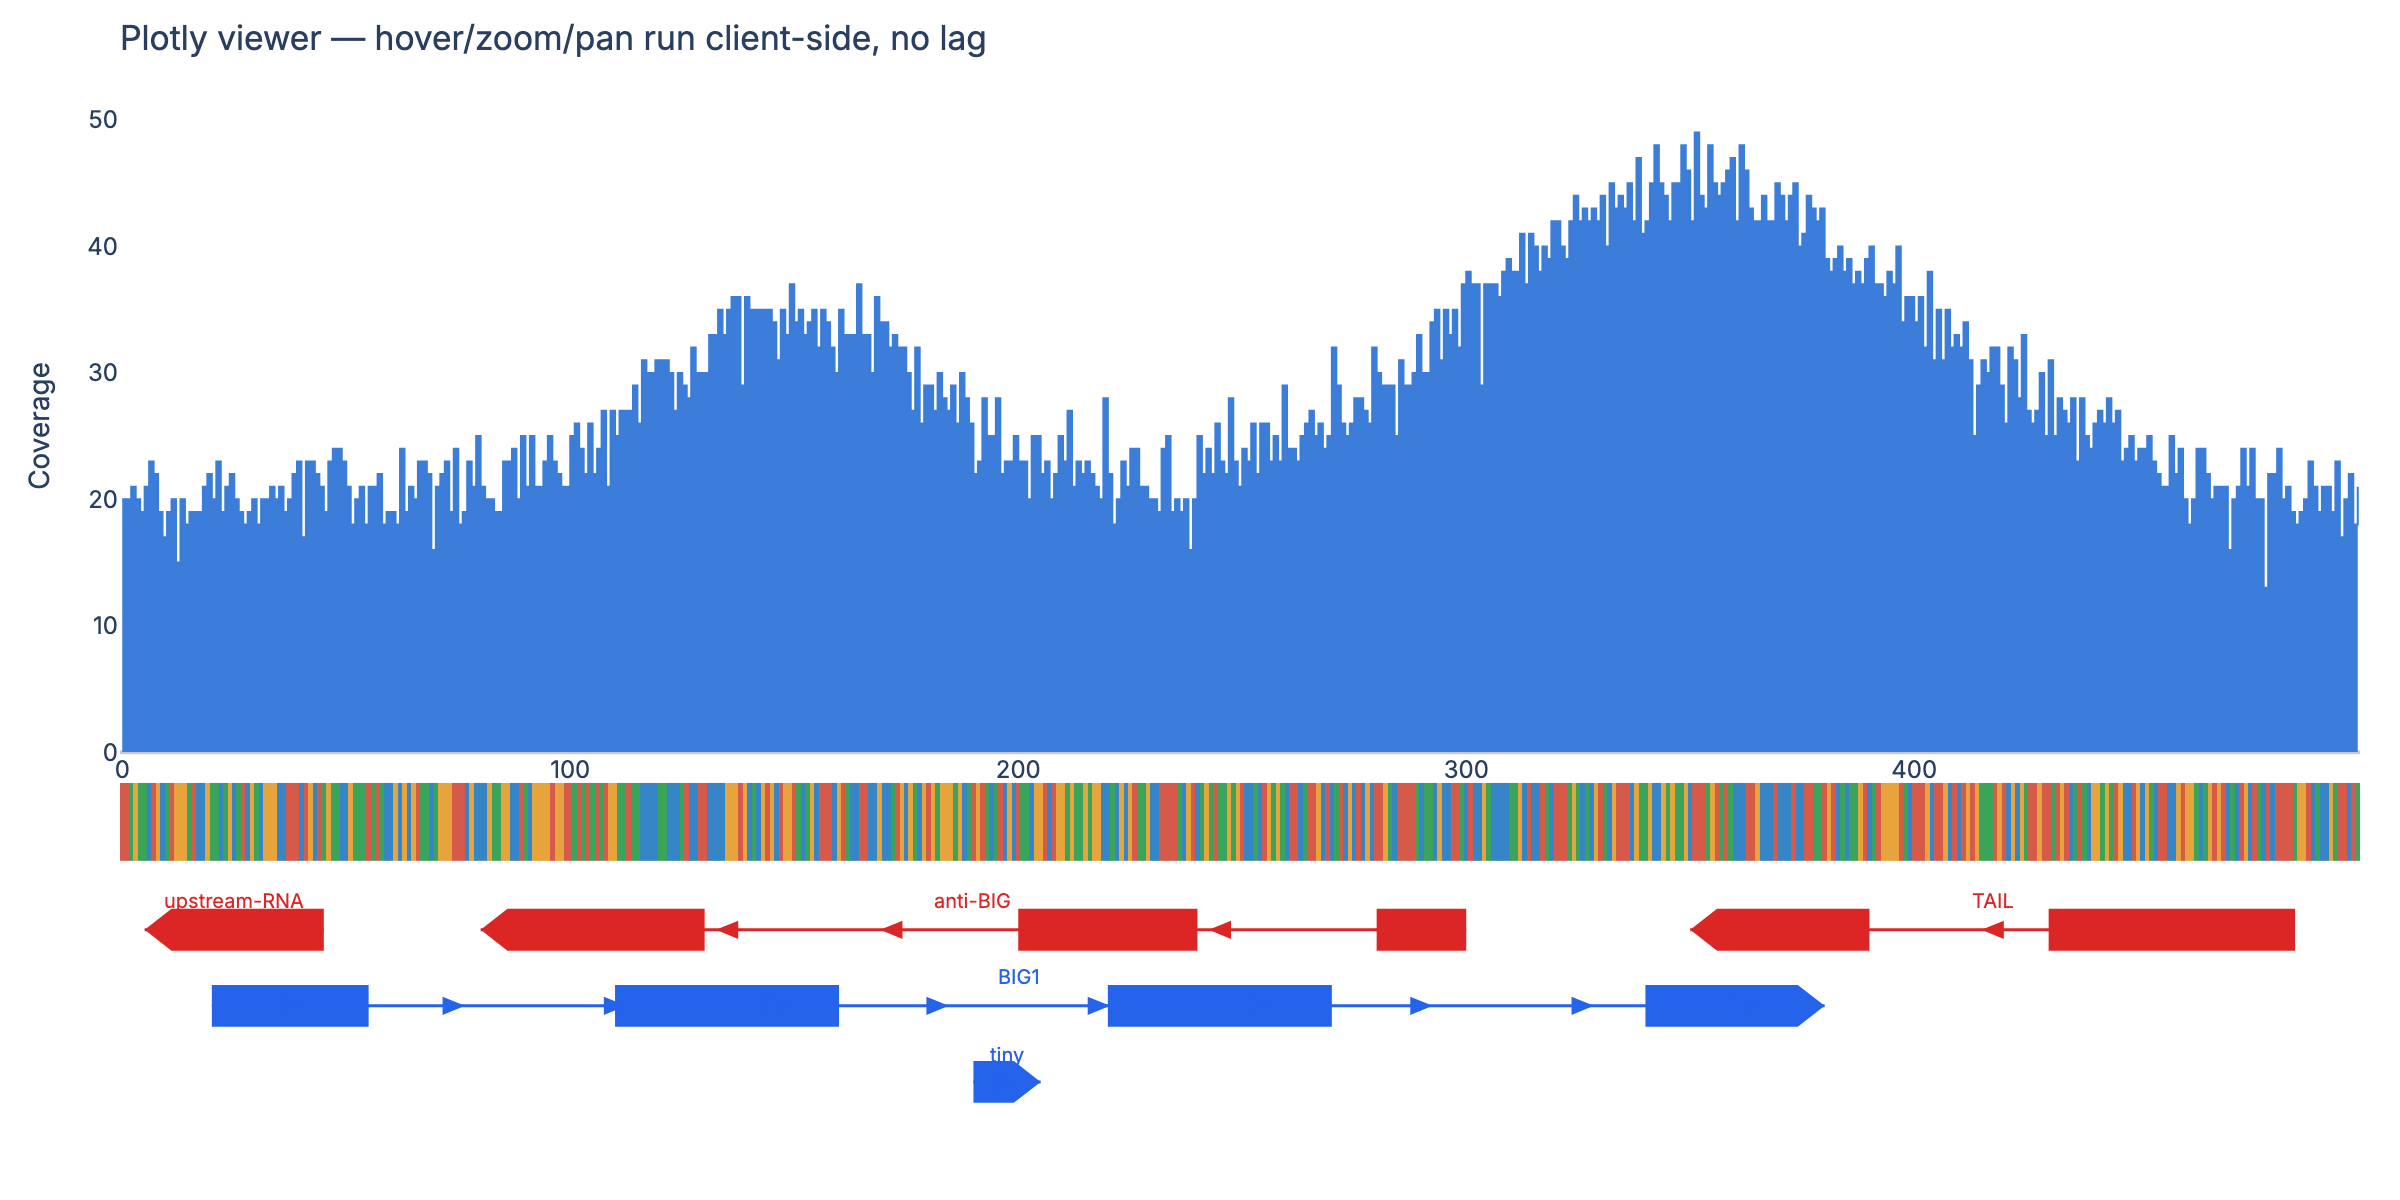
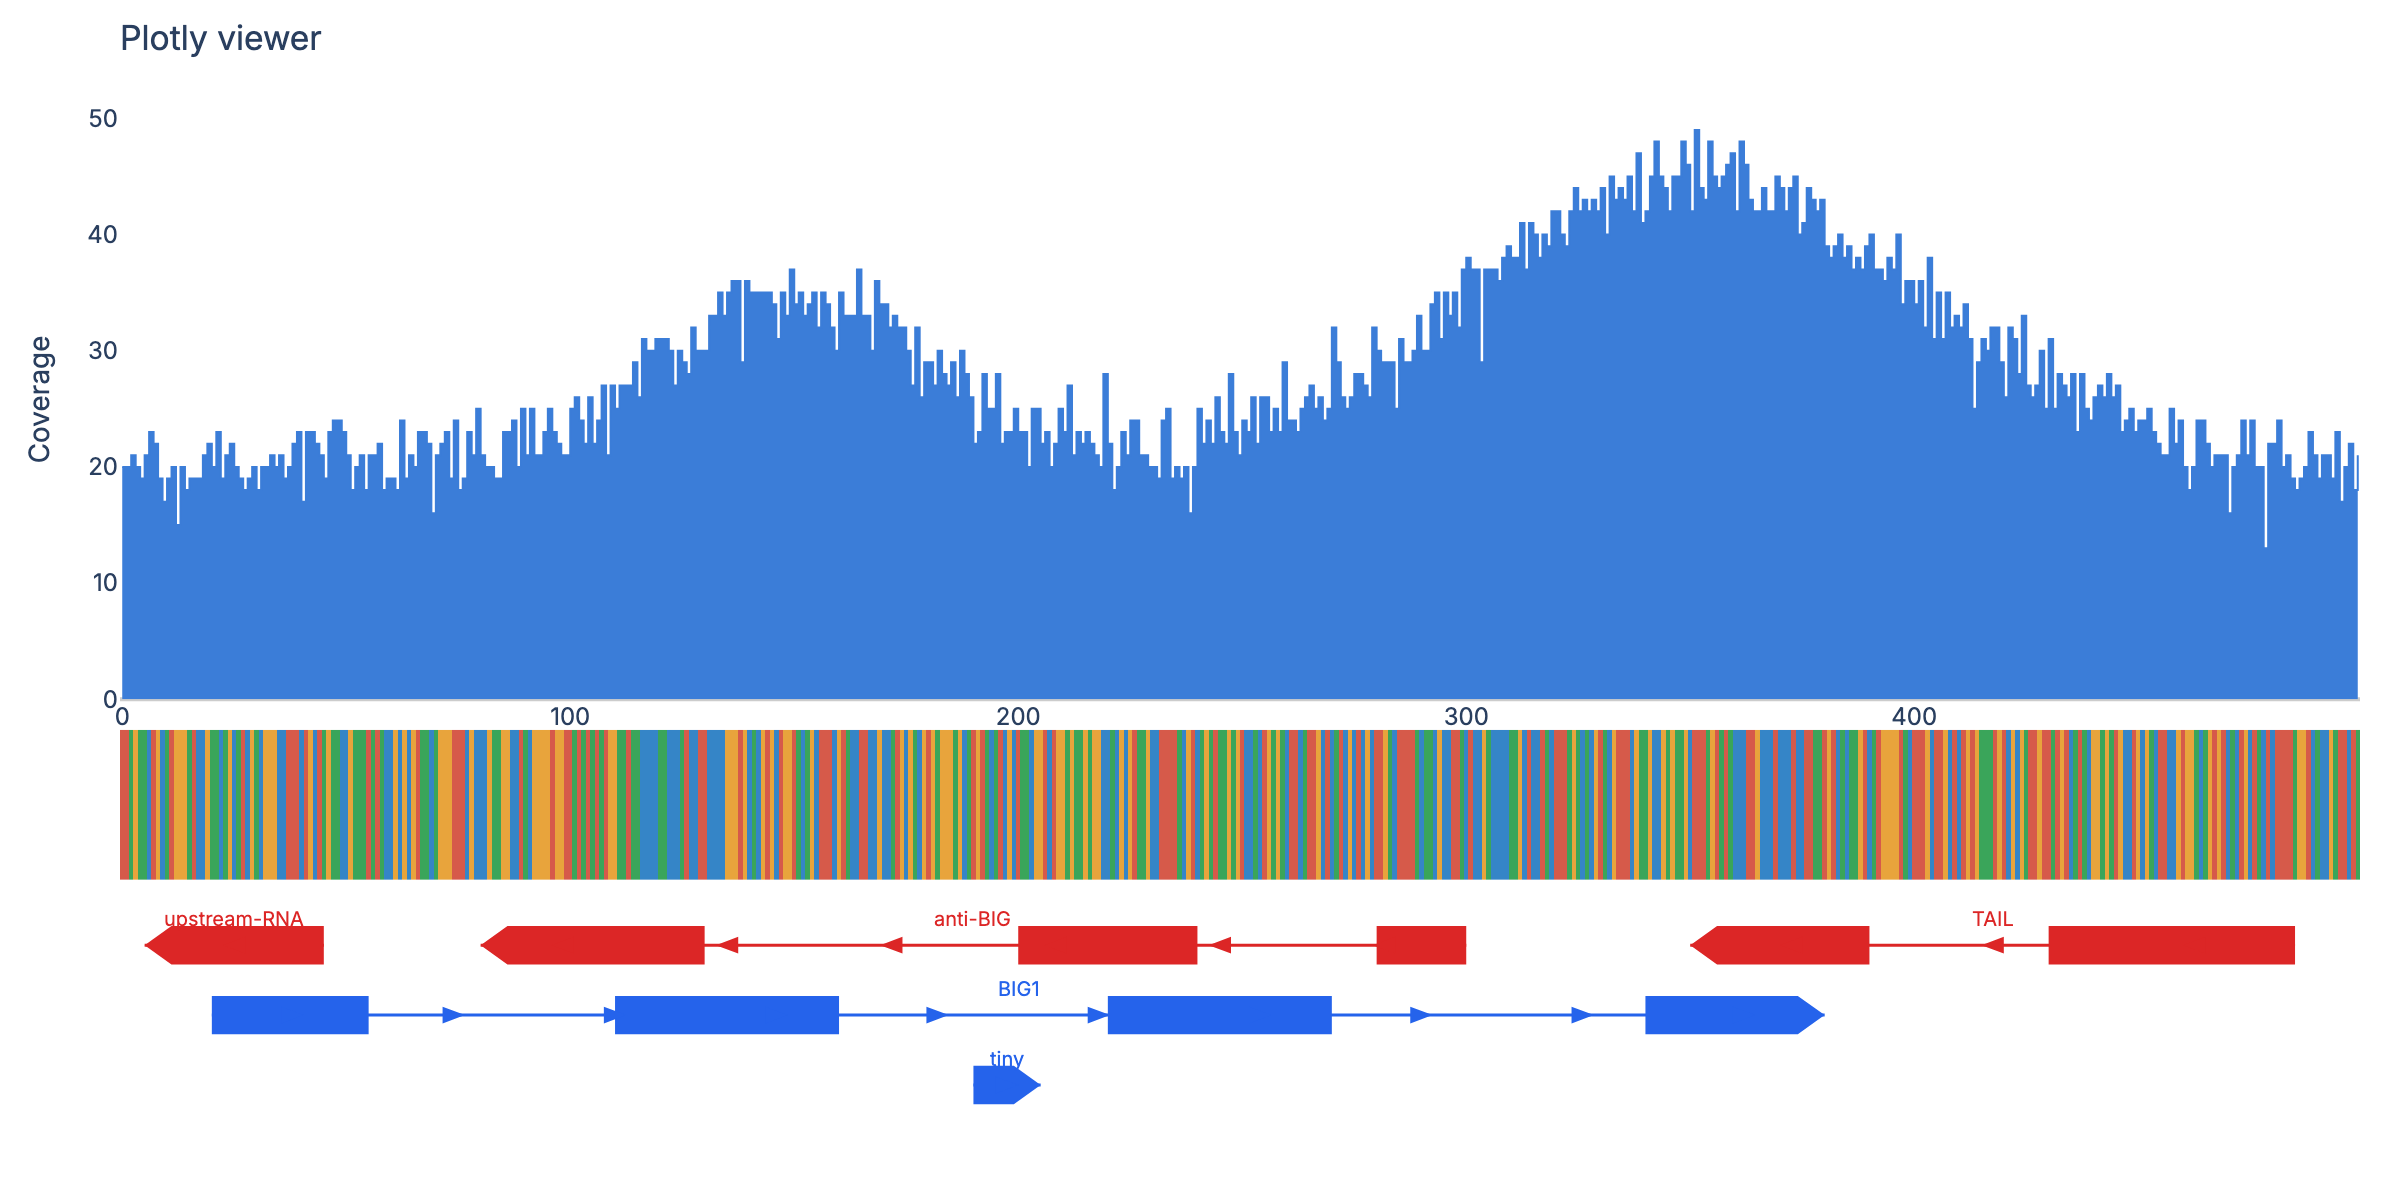
Show DNA letters in the Plotly viewer when zoomed in
plotly_coverage_track now adds a Scatter mode='text' trace on top of the
sequence Heatmap, one bold-white letter per base. The trace starts
hidden; we wrap the figure as a plotly.graph_objects.FigureWidget and
register an on_change(xaxis.range) callback that flips the trace's
visibility based on the visible base count vs. plot width (rough
heuristic: ~10 px per letter is the minimum readable density).

Letters are vertically centered on the heatmap cells (y=0 with cells
spanning [-0.5, 0.5]) and the sequence row's height ratio is bumped to
0.25 so fontsize 13 fits cleanly without clipping.

Notes:
- FigureWidget requires anywidget (pulled in via uv add).
- When viewed live in JupyterLab/VS Code, zooming via Plotly's modebar
  or box-select triggers the relayout callback; the letters pop in once
  the visible window fits the threshold.
- Static exports (kaleido) won't trigger the callback, but the default
  hidden state is correct for the full-range view anyway. A user wanting
  a zoomed snapshot can manually set visible=True before write_image.

diff --git a/src/s2fview/plotly_track.py b/src/s2fview/plotly_track.py
@@ -82,7 +82,7 @@ def plotly_coverage_track(
     row_heights: list[float] = [1.0]
     if sequence is not None:
         rows.append("sequence")
-        row_heights.append(0.12)
+        row_heights.append(0.25)
     lanes: list[int] = []
     n_lanes = 0
     if genes:
@@ -139,8 +139,43 @@ def plotly_coverage_track(
             row=seq_row,
             col=1,
         )
+        # Letter glyphs as a Scatter text trace on top of the heatmap. They
+        # are clipped to the axis (cliponaxis=True is default) and Plotly's
+        # text renderer just stamps them at the data positions. When zoomed
+        # out the letters overlap into a blur; the JS post-processing below
+        # toggles their visibility based on the visible base density so
+        # they only show up when there's pixel room for them to read.
+        seq_upper = sequence.upper()
+        # Heatmap with no y= defaults to row indices; for a single-row z the
+        # cell vertically spans y in [-0.5, 0.5]. Center the letter glyphs at
+        # y=0 so they sit dead-center on the colored cells.
+        fig.add_trace(
+            go.Scatter(
+                x=list(positions),
+                y=[0.0] * len(positions),
+                mode="text",
+                text=list(seq_upper),
+                textposition="middle center",
+                textfont={
+                    "family": "Inter, -apple-system, Helvetica, Arial, sans-serif",
+                    "size": 13,
+                    "color": "white",
+                    "weight": "bold",
+                },
+                hoverinfo="skip",
+                showlegend=False,
+                name="sequence_letters",
+            ),
+            row=seq_row,
+            col=1,
+        )
         fig.update_yaxes(
-            showticklabels=False, showgrid=False, zeroline=False, row=seq_row, col=1
+            range=[-0.5, 0.5],
+            showticklabels=False,
+            showgrid=False,
+            zeroline=False,
+            row=seq_row,
+            col=1,
         )
 
     if genes:
@@ -199,7 +234,47 @@ def plotly_coverage_track(
 
     fig.update_yaxes(title_text="Coverage", row=1, col=1, zeroline=True, zerolinecolor="#cccccc")
 
-    return fig
+    if sequence is None:
+        return fig
+
+    # Lazy letters: when sequence is shown, wrap as a FigureWidget and bind
+    # an on-relayout callback that toggles the letter trace's visibility
+    # based on visible base density. Letters only render when zoomed in
+    # enough that each base gets ~font-size pixels of horizontal room.
+    fw = go.FigureWidget(fig)
+    # Find the sequence-letters scatter trace (added second in seq row).
+    letter_trace_idx: int | None = None
+    for i, tr in enumerate(fw.data):
+        if getattr(tr, "name", None) == "sequence_letters":
+            letter_trace_idx = i
+            break
+
+    if letter_trace_idx is None:
+        return fw
+
+    seq_len = len(sequence)
+    full_xrange = (float(positions[0]) - 0.5, float(positions[-1]) + 0.5)
+    # Approximate canvas-px-per-base at full zoom; we use this to decide a
+    # base-count threshold below which letters are dense enough to read.
+    plot_width_px = max(1, width - 80)  # rough plot area after margins
+    visible_bases_threshold = max(8, plot_width_px // 10)  # ~10 px per letter
+
+    def _toggle_letters(layout, x_range=None):
+        # x_range comes through as (lo, hi); fall back to current xaxis range.
+        if x_range is None:
+            ax = fw.layout.xaxis
+            xr = getattr(ax, "range", None)
+            if xr is None:
+                xr = full_xrange
+            x_range = (float(xr[0]), float(xr[1]))
+        visible = (x_range[1] - x_range[0]) <= visible_bases_threshold
+        with fw.batch_update():
+            fw.data[letter_trace_idx].visible = bool(visible)
+
+    fw.data[letter_trace_idx].visible = False  # hidden until zoomed in enough
+    fw.layout.on_change(_toggle_letters, "xaxis.range")
+
+    return fw
 
 
 def _add_gene_shapes(